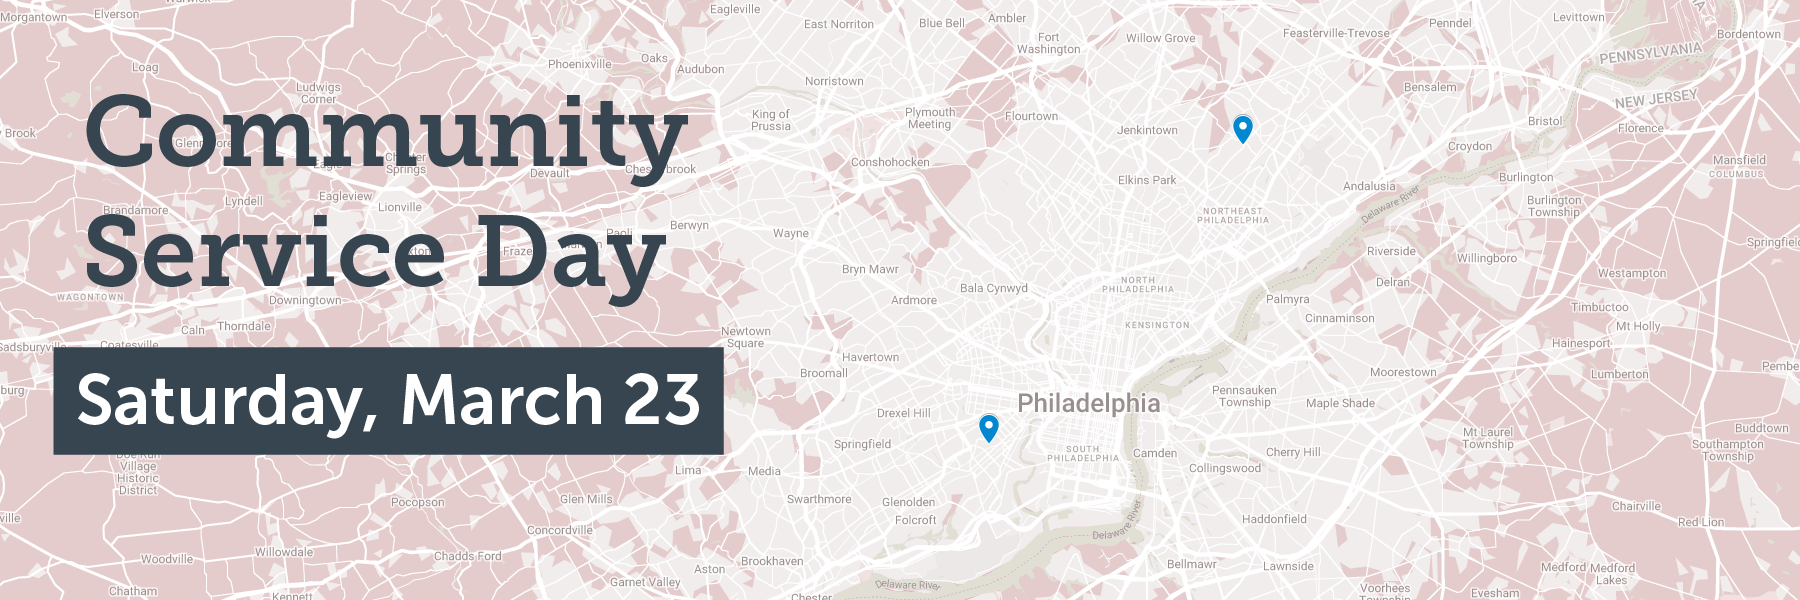
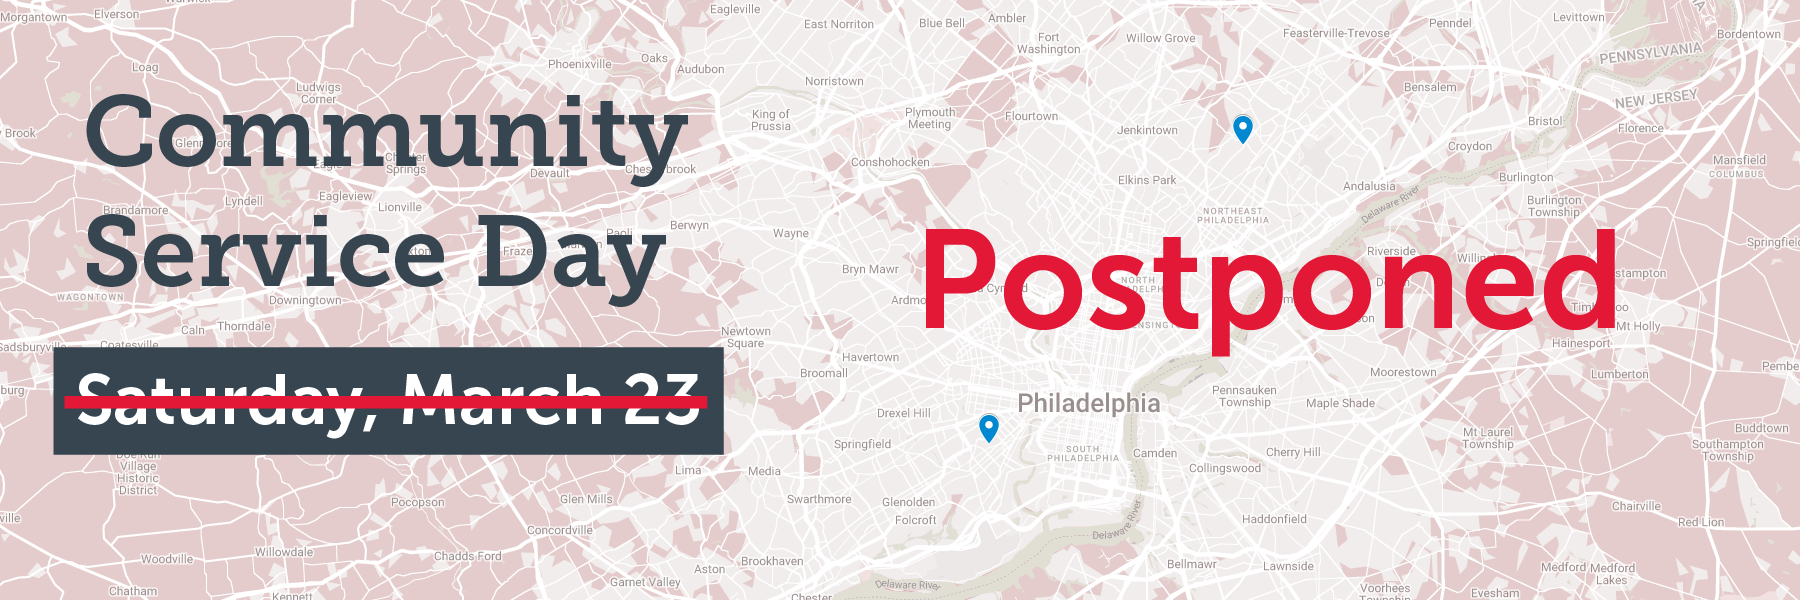
Postponing CSD

Changed region(s): [[0.4978, 0.36, 0.9022, 0.6], [0.0311, 0.66, 0.4044, 0.69]]

diff --git a/_posts/news/2024-03-13-2024-Community-Service-Day.md b/_posts/news/2024-03-13-2024-Community-Service-Day.md
@@ -8,8 +8,16 @@ thumbnail: unami-green.png
 excerpt: The Community Service Day is our Lodge’s paramount way to give back to our local neighborhoods...
 event:
   title: Community Service Day
-  date: 2024-03-23
+  date: TBD (Postponed)
 ---
+
+The Service Committee has made the decision to postpone the Community Service Day due to the inclement weather conditions this coming Saturday. The committee will review the feasibility of rescheduling this event sometime in 2024.  The committee extends our gratitude to Pennypack Park and the Friends of Mount Moriah for partnering with the lodge’s Community Service Day.
+
+Yours in the Brotherhood  
+Service Committee  
+Unami Lodge, One
+
+<hr>
 
 The Community Service Day is our Lodge’s paramount way to give back to our local neighborhoods. Arrowmen, friends and family are all invited to join us March 23rd at each of the following sites.
 

diff --git a/links.md b/links.md
@@ -3,7 +3,7 @@ title: Home
 layout: links
 
 link-highlight:
-  Community Service Day: /news/2024-Community-Service-Day
+  Spring Service 1: https://scoutingevent.com/525-68803
 
 links:
   Nominate for Vigil: /awards
